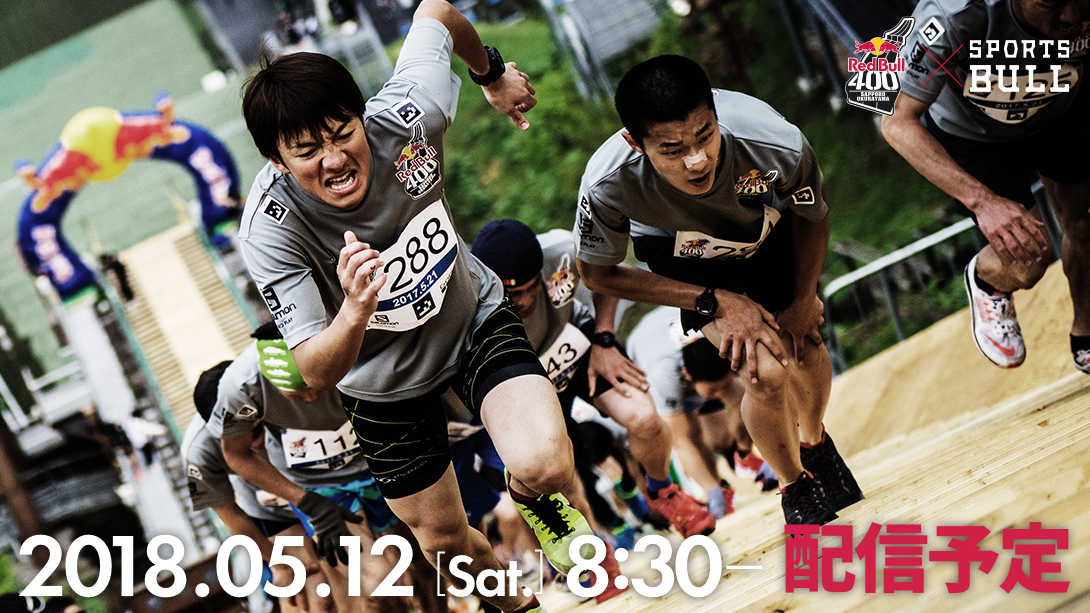
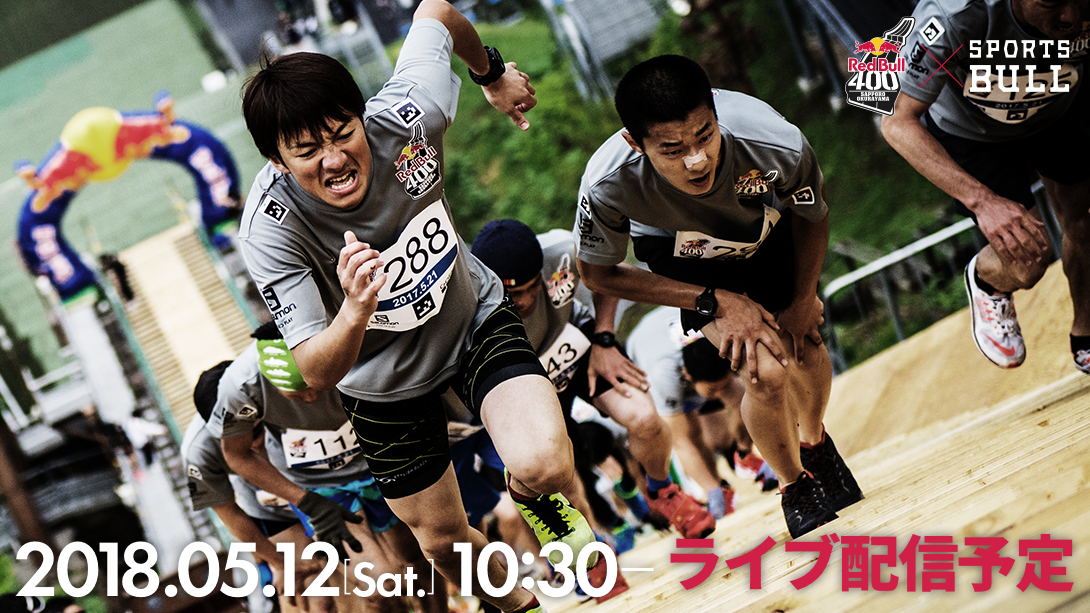
関連記事など追加

Changed region(s): [[0.0, 0.8369, 0.9982, 0.9918]]

diff --git a/_src/app/assets/css/red-bull-400-2018/ui.scss b/_src/app/assets/css/red-bull-400-2018/ui.scss
@@ -220,18 +220,19 @@ $gray: #f8fafc;
             }
             th {
               width: 1px;
-              line-height: 2;
               white-space: nowrap;
               font-weight: bold;
-              padding-right: 20px;
+              padding-right: 10px;
               font-size: 16px;
               @include mq-l {
-                font-size: 24px;
+                font-size: 20px;
+                padding-right: 20px;
               }
             }
             td {
+              //font-size: 12px;
               @include mq-l {
-                font-size: 18px;
+                font-size: 16px;
               }
             }
           }
@@ -242,7 +243,7 @@ $gray: #f8fafc;
         margin-top: 10px;
       }
     }
-    .rb--sp-banner {
+    .rb--banner {
       @include mb;
       div {
         margin: auto;
@@ -267,7 +268,31 @@ $gray: #f8fafc;
             display: flex;
             justify-content: space-between;
             padding-bottom: 10px;
+            &.movie {
+              .rb--related__image-wrap:before {
+                content: "";
+                position: absolute;
+                top: 50%;
+                left: 50%;
+                width: 30px;
+                height: 30px;
+                transform: translate(-50%,-50%);
+                background: url(/assets/images/red-bull-400-2018/related-icon_play.png) 0 0 no-repeat;
+                overflow: hidden;
+                font-size: 0;
+                text-indent: 100%;
+                white-space: nowrap;
+                outline: none;
+                background-size: 30px;
+                @include mq-l {
+                  width: 60px;
+                  height: 60px;
+                  background-size: 60px;
+                }
+              }
+            }
             .rb--related__image-wrap {
+              position: relative;
               width: calc(40% - 5px);
               img {
                 width: 100%;
@@ -303,6 +328,9 @@ $gray: #f8fafc;
       li:first-child {
         margin-right: 40px
       }
+    }
+    .rb--sidebar__skyscraper {
+      margin-top: 20px;
     }
   }
   @include mq-s {

diff --git a/_src/app/assets/js/red-bull-400-2018/videoPlayer.js b/_src/app/assets/js/red-bull-400-2018/videoPlayer.js
@@ -5,11 +5,11 @@ var pageUrl = location.href;
 if (pageUrl.match(/sportsbull.s3/) || pageUrl.match(/localhost/)) {
 	api = 'https://img.sportsbull.jp/static/redbull/redbull01live.json';
 } else if (pageUrl.match(/dev.sportsbull.jp/)) {
-	api = '//dev-img.sportsbull.jp/static/redbull/redbull01live.json';
+	api = 'https://dev-img.sportsbull.jp/static/redbull/redbull01live.json';
 } else if (pageUrl.match(/stg.sportsbull.jp/)) {
-	api = '//dev-img.sportsbull.jp/static/redbull/redbull01live.json';
+	api = 'https://dev-img.sportsbull.jp/static/redbull/redbull01live.json';
 } else {
-	api = '//img.sportsbull.jp/static/redbull/redbull01live.json';
+	api = 'https://img.sportsbull.jp/static/redbull/redbull01live.json';
 }
 var result = document.querySelector('#placeHolder');
 var accountId = '5704890303001';

diff --git a/app/templates/red-bull-400-2018/index.php b/app/templates/red-bull-400-2018/index.php
@@ -125,25 +125,34 @@
             </div>
             <div class="rb-appli">
 
-                <a href="https://www.redbull.com/jp-ja/events/red-bull-400/red-bull-400-campaign" target="_blank">
-                  <img src="/assets/images/red-bull-400-2018/bnr_red_bull.png" alt="" class="rb-hide-pc">
-                  <img src="/assets/images/red-bull-400-2018/bnr_red_bull_pc.png" alt="" class="rb-hide-sp">
+
+
+
+
+              <?php
+              // app in webview 時に .head-sec を非表示にする
+                if (!$from_webview) :
+              ?>
+
+                <a href="http://400.redbull.com/" target="_blank">
+                  <img src="/assets/images/red-bull-400-2018/bnr_red_bull.gif" alt="" class="rb-hide-pc">
+                  <img src="/assets/images/red-bull-400-2018/bnr_red_bull_pc.gif" alt="" class="rb-hide-sp">
                 </a>
 
-                <?php
-                // app in webview 時に .head-sec を非表示にする
-                  if (!$from_webview) :
-                ?>
 
-                <a href="https://app.adjust.com/paf496?deep_link=sportsbull%3A%2F%2F" target="_blank">
+                <a href="https://app.adjust.com/tv698b4" target="_blank">
                   <img src="/assets/images/red-bull-400-2018/bnr_spbl_app.png" alt="アプリなら無料ライブ配信開始の通知を受け取れる！" class="rb-hide-pc">
                   <img src="/assets/images/red-bull-400-2018/bnr_spbl_app_pc.png" alt="アプリなら無料ライブ配信開始の通知を受け取れる！" class="rb-hide-sp">
                 </a>
 
-                <?php
-                  endif;
-                // -----------------------------------------
-                ?>
+              <?php else:?>
+
+                  <img src="/assets/images/red-bull-400-2018/bnr_red_bull_app.jpg" alt="" class="rb-hide-pc">
+
+              <?php
+                endif;
+              // -----------------------------------------
+              ?>
 
             </div>
 
@@ -157,11 +166,43 @@
                   </tr>
                   <tr>
                     <th>11:00</th>
-                    <td>競技開始</td>
+                    <td>男子シングル予選</td>
+                  </tr>
+                  <tr>
+                    <th>12:15</th>
+                    <td>女子シングル予選</td>
+                  </tr>
+                  <tr>
+                    <th>13:45</th>
+                    <td>自衛隊対抗リレー決勝</td>
+                  </tr>
+                  <tr>
+                    <th>14:00</th>
+                    <td>学生対抗リレー決勝</td>
+                  </tr>
+                  <tr>
+                    <th>14:15</th>
+                    <td>男子 4×100リレー決勝</td>
+                  </tr>
+                  <tr>
+                    <th>14:30</th>
+                    <td>オープン 4×100リレー決勝スタート</td>
+                  </tr>
+                  <tr>
+                    <th>14:45</th>
+                    <td>女子シングル 決勝</td>
+                  </tr>
+                  <tr>
+                    <th>15:00</th>
+                    <td>男子シングル 決勝</td>
+                  </tr>
+                  <tr>
+                    <th>15:45</th>
+                    <td>表彰式</td>
                   </tr>
                   <tr>
                     <th>16:00</th>
-                    <td>競技終了</td>
+                    <td>イベント終了</td>
                   </tr>
                 </tbody>
               </table>
@@ -169,21 +210,38 @@
             </section>
 
             <?php if ($page['ua'] !== 'desktop') : ?>
-              <div class="rb--sp-banner">
-                <!-- /531683568/fwt-ad/fwt-sp-bigbanner2 -->
+              <div class="rb--banner">
+                <!-- /531683568/redbull_ad/red-bull-live-sp-big-banner -->
                 <script>
                   googletag.cmd.push(function() {
-                  googletag.defineSlot('/531683568/fwt-ad/fwt-sp-bigbanner2', [320, 50], 'div-gpt-ad-1515139762773-0').addService(googletag.pubads());
-                  googletag.pubads().enableSingleRequest();
-                  googletag.enableServices();
+                    googletag.defineSlot('/531683568/redbull_ad/red-bull-live-sp-big-banner', [320, 50], 'div-gpt-ad-1525913603821-0').addService(googletag.pubads());
+                    googletag.pubads().enableSingleRequest();
+                    googletag.enableServices();
                   });
                 </script>
-                <div id='div-gpt-ad-1515139762773-0' style='height:50px; width:320px;'>
-                  <script>
-                    googletag.cmd.push(function() { googletag.display('div-gpt-ad-1515139762773-0'); });
-                  </script>
+                <div id='div-gpt-ad-1525913603821-0' style='height:50px; width:320px;'>
+                <script>
+                googletag.cmd.push(function() { googletag.display('div-gpt-ad-1525913603821-0'); });
+                </script>
                 </div>
-                <!-- // /531683568/fwt-ad/fwt-sp-bigbanner2 -->
+                <!-- // /531683568/redbull_ad/red-bull-live-sp-big-banner -->
+              </div>
+            <?php else:?>
+              <div class="rb--banner">
+                <!-- /531683568/redbull_ad/red-bull-live-pc-bigbanner -->
+                <script>
+                  googletag.cmd.push(function() {
+                    googletag.defineSlot('/531683568/redbull_ad/red-bull-live-pc-bigbanner', [728, 90], 'div-gpt-ad-1525914354723-0').addService(googletag.pubads());
+                    googletag.pubads().enableSingleRequest();
+                    googletag.enableServices();
+                  });
+                </script>
+                <div id='div-gpt-ad-1525914354723-0' style='height:90px; width:728px;'>
+                <script>
+                googletag.cmd.push(function() { googletag.display('div-gpt-ad-1525914354723-0'); });
+                </script>
+                </div>
+                <!-- // /531683568/redbull_ad/red-bull-live-pc-bigbanner -->
               </div>
             <?php endif; ?>
 
@@ -191,27 +249,14 @@
               <h2><img src="/assets/images/red-bull-400-2018/ttl_related.png" alt="">関連記事</h2>
               <ul>
                 <li>
-                  <a href="/p/250564/">
+                  <a href="/p/312214/" class="movie">
                     <div class="rb--related__image-wrap">
-                      <img src="https://img.sportsbull.jp/thumbnail1/img2018011123260774225000.png" alt="">
+                      <img src="https://img.sportsbull.jp/thumbnail1/img2018050922124162470800.png" alt="">
                     </div>
                     <div class="rb--related__text-wrap">
-                      <h3>【100秒動画】初心者でもわかるFWT【100秒動画】初心者でもわかるFWT</h3>
+                      <h3>世界で最も過酷な400M走に「ブルくん」が挑むよ！</h3>
                       <?php if ($page['ua'] === 'desktop') : ?>
-                        <p class="rb-hide-sp">年々進化し続ける「FWT（Freeride World 年々進化し続ける「FWT（Freeride World Tour）」が2018年1月、長野県白馬村※で開催される。運命の大一番を前に「FWT」解説動画が公開。FWT初心者にも入門編として解りやすい100秒動画となっている。年々進化し続ける「FWT（Freeride World 年々進化し続ける「FWT（Freeride World Tour）」が2018年1月、長野県白馬村※で開催される。運命の大一番を前に「FWT」解説動画が公開。FWT初心者にも入門編として解りやすい100秒動画となっている。</p>
-                      <?php endif; ?>
-                    </div>
-                  </a>
-                </li>
-                <li>
-                  <a href="/p/250564/">
-                    <div class="rb--related__image-wrap">
-                      <img src="https://img.sportsbull.jp/thumbnail1/img2018011123260774225000.png" alt="">
-                    </div>
-                    <div class="rb--related__text-wrap">
-                      <h3>【100秒動画】初心者でもわかるFWT【100秒動画】初心者でもわかるFWT</h3>
-                      <?php if ($page['ua'] === 'desktop') : ?>
-                        <p class="rb-hide-sp">年々進化し続ける「FWT（Freeride World 年々進化し続ける「FWT（Freeride World Tour）」が2018年1月、長野県白馬村※で開催される。運命の大一番を前に「FWT」解説動画が公開。FWT初心者にも入門編として解りやすい100秒動画となっている。年々進化し続ける「FWT（Freeride World 年々進化し続ける「FWT（Freeride World Tour）」が2018年1月、長野県白馬村※で開催される。運命の大一番を前に「FWT」解説動画が公開。FWT初心者にも入門編として解りやすい100秒動画となっている。</p>
+                        <p class="rb-hide-sp">久しぶりにあいつが帰ってくる。昨年はボックスカートレースに挑み爪あとを残したブルくん。正直立ってるだけでもしんどいのに、今回は世界で最も過酷な４００M走っちゃうよ！応援してね！</p>
                       <?php endif; ?>
                     </div>
                   </a>
@@ -221,40 +266,37 @@
 
             <ul class="footer-rectangle">
               <li class="rb-hide-sp">
-
-                <!-- /531683568/fwt-ad/fwt-pc-footer-rectangle1 -->
+                <!-- /531683568/redbull_ad/red-bull-live-pc-footer-rectangle1 -->
                 <script>
                   googletag.cmd.push(function() {
-                  googletag.defineSlot('/531683568/fwt-ad/fwt-pc-footer-rectangle1', [300, 250], 'div-gpt-ad-1515647523981-0').addService(googletag.pubads());
-                  googletag.pubads().enableSingleRequest();
-                  googletag.enableServices();
+                    googletag.defineSlot('/531683568/redbull_ad/red-bull-live-pc-footer-rectangle1', [300, 250], 'div-gpt-ad-1525913731348-0').addService(googletag.pubads());
+                    googletag.pubads().enableSingleRequest();
+                    googletag.enableServices();
                   });
                 </script>
-                <div id='div-gpt-ad-1515647523981-0' style='height:250px; width:300px;'>
-                  <script>
-                    googletag.cmd.push(function() { googletag.display('div-gpt-ad-1515647523981-0'); });
-                  </script>
-                </div>
-                <!-- // /531683568/fwt-ad/fwt-pc-footer-rectangle1 -->
 
+                <div id='div-gpt-ad-1525913731348-0' style='height:250px; width:300px;'>
+                <script>
+                googletag.cmd.push(function() { googletag.display('div-gpt-ad-1525913731348-0'); });
+                </script>
+                </div>
+                <!-- // /531683568/redbull_ad/red-bull-live-pc-footer-rectangle1 -->
               </li>
               <li>
-
-                <!-- /531683568/fwt-ad/fwt-pc-footer-rectangle2 -->
+                <!-- /531683568/redbull_ad/red-bull-live-pc-footer-rectangle2 -->
                 <script>
                   googletag.cmd.push(function() {
-                  googletag.defineSlot('/531683568/fwt-ad/fwt-pc-footer-rectangle2', [300, 250], 'div-gpt-ad-1515647582515-0').addService(googletag.pubads());
-                  googletag.pubads().enableSingleRequest();
-                  googletag.enableServices();
+                    googletag.defineSlot('/531683568/redbull_ad/red-bull-live-pc-footer-rectangle2', [300, 250], 'div-gpt-ad-1525913782071-0').addService(googletag.pubads());
+                    googletag.pubads().enableSingleRequest();
+                    googletag.enableServices();
                   });
                 </script>
-                <div id='div-gpt-ad-1515647582515-0' style='height:250px; width:300px;'>
-                  <script>
-                    googletag.cmd.push(function() { googletag.display('div-gpt-ad-1515647582515-0'); });
-                  </script>
+                <div id='div-gpt-ad-1525913782071-0' style='height:250px; width:300px;'>
+                <script>
+                googletag.cmd.push(function() { googletag.display('div-gpt-ad-1525913782071-0'); });
+                </script>
                 </div>
-                <!-- // /531683568/fwt-ad/fwt-pc-footer-rectangle2 -->
-
+                <!-- // /531683568/redbull_ad/red-bull-live-pc-footer-rectangle2 -->
               </li>
             </ul>
 

diff --git a/app/templates/red-bull-400-2018/_include/_static_sidebar.php b/app/templates/red-bull-400-2018/_include/_static_sidebar.php
@@ -2,22 +2,20 @@
   <div id="sidebar-moving-container">
 
     <div class="sponsor-link">
-
-      <!-- /531683568/fwt-ad/fwt-sidebar-rectangle -->
+      <!-- /531683568/redbull_ad/red-bull-live-sidebar-rectangle -->
       <script>
         googletag.cmd.push(function() {
-          googletag.defineSlot('/531683568/fwt-ad/fwt-sidebar-rectangle', [300, 250], 'div-gpt-ad-1515647154550-0').addService(googletag.pubads());
+          googletag.defineSlot('/531683568/redbull_ad/red-bull-live-sidebar-rectangle', [300, 250], 'div-gpt-ad-1525913901518-0').addService(googletag.pubads());
           googletag.pubads().enableSingleRequest();
           googletag.enableServices();
         });
       </script>
-      <div id='div-gpt-ad-1515647154550-0' style='height:250px; width:300px;'>
+      <div id='div-gpt-ad-1525913901518-0' style='height:250px; width:300px;'>
       <script>
-      googletag.cmd.push(function() { googletag.display('div-gpt-ad-1515647154550-0'); });
+      googletag.cmd.push(function() { googletag.display('div-gpt-ad-1525913901518-0'); });
       </script>
       </div>
-      <!-- // /531683568/fwt-ad/fwt-sidebar-rectangle -->
-
+      <!-- // /531683568/redbull_ad/red-bull-live-sidebar-rectangle -->
     </div>
 
     <div class="app-bnr">
@@ -52,21 +50,21 @@
       <script src="https://ssl.socdm.com/sdk/js/adg-script-loader.js?id=35251&targetID=adg_35251&displayid=2&adType=PC&width=0&height=0&sdkType=3&async=true&tagver=2.0.0"></script>
     </div>
 
-    <div class="fwt--sidebar__skyscraper">
-      <!-- /531683568/fwt-ad/fwt-pc-sidebar-600-300 -->
+    <div class="rb--sidebar__skyscraper">
+      <!-- /531683568/redbull_ad/red-bull-live-pc-sidebar-600-300 -->
       <script>
         googletag.cmd.push(function() {
-          googletag.defineSlot('/531683568/fwt-ad/fwt-pc-sidebar-600-300', [300, 600], 'div-gpt-ad-1515646969328-0').addService(googletag.pubads());
+          googletag.defineSlot('/531683568/redbull_ad/red-bull-live-pc-sidebar-600-300', [300, 600], 'div-gpt-ad-1525916071510-0').addService(googletag.pubads());
           googletag.pubads().enableSingleRequest();
           googletag.enableServices();
         });
       </script>
-      <div id='div-gpt-ad-1515646969328-0' style='height:600px; width:300px;'>
+      <div id='div-gpt-ad-1525916071510-0' style='height:600px; width:300px;'>
       <script>
-      googletag.cmd.push(function() { googletag.display('div-gpt-ad-1515646969328-0'); });
+      googletag.cmd.push(function() { googletag.display('div-gpt-ad-1525916071510-0'); });
       </script>
       </div>
-      <!-- // /531683568/fwt-ad/fwt-pc-sidebar-600-300 -->
+      <!-- // /531683568/redbull_ad/red-bull-live-pc-sidebar-600-300 -->
     </div>
 
   </div><!--/#sidebar-moving-->
